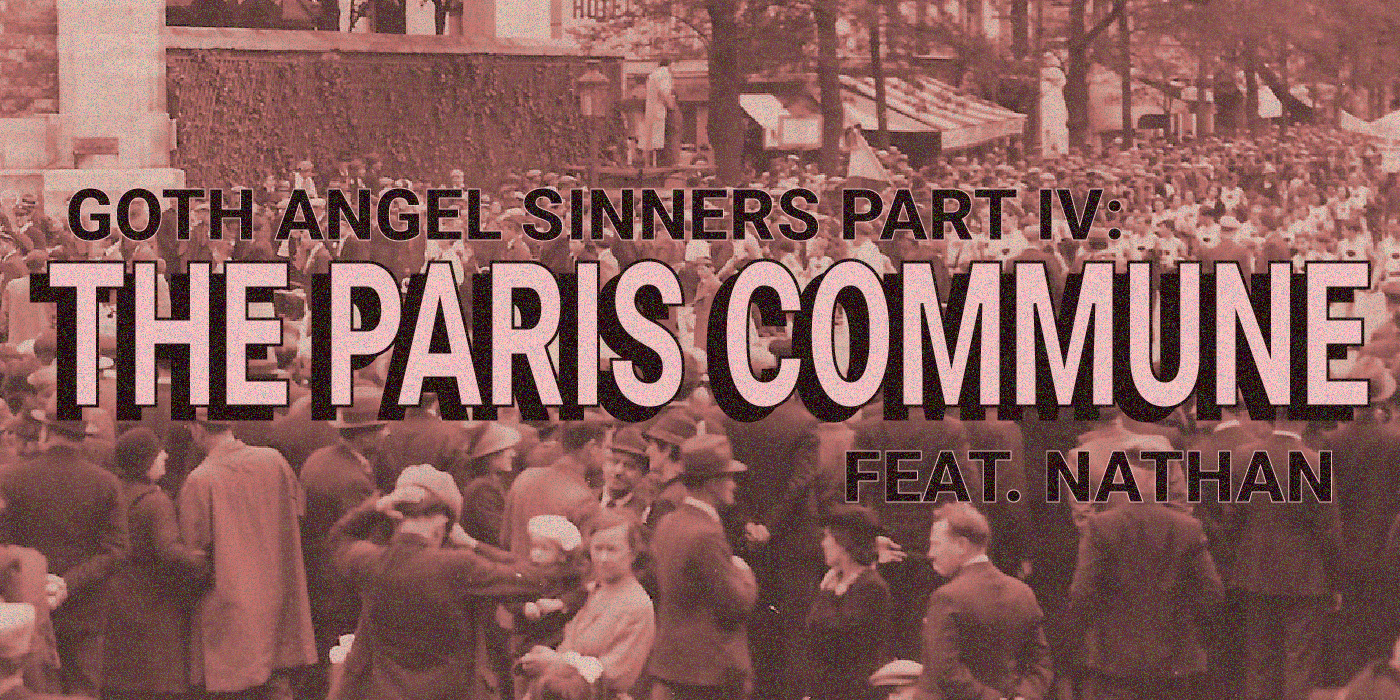
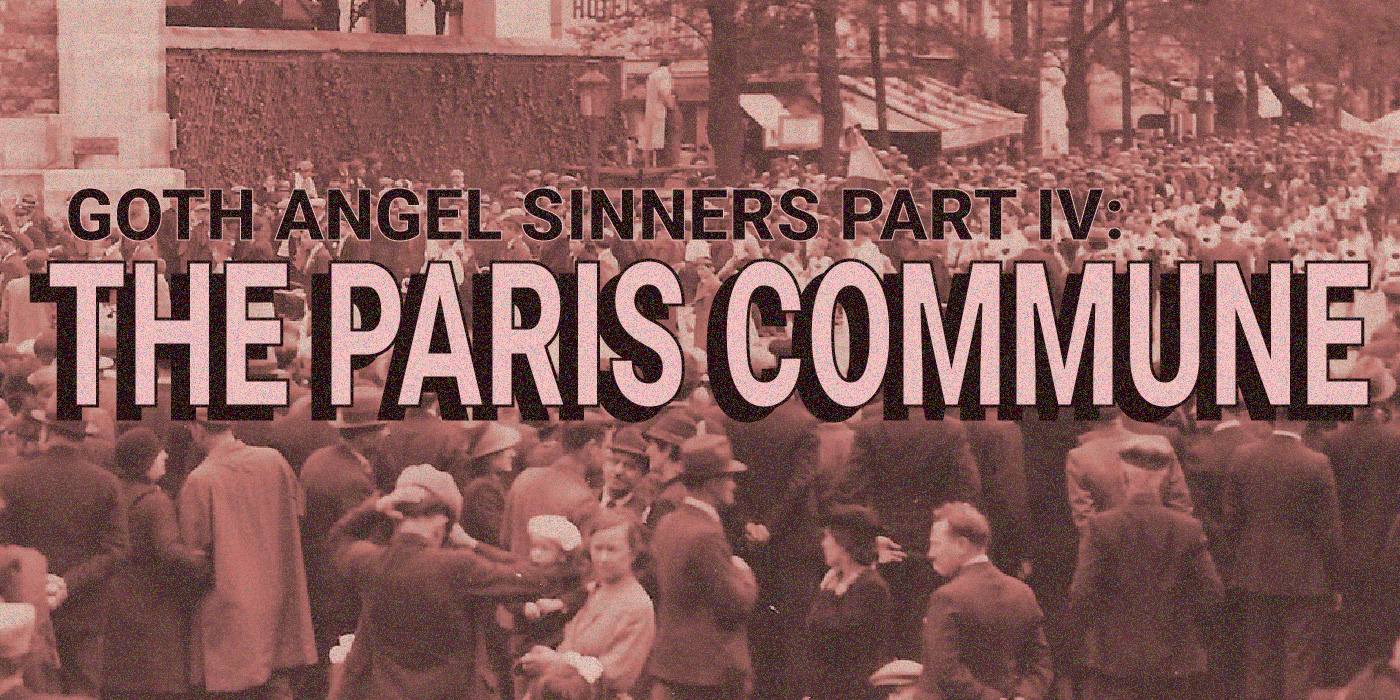
published pt iv notes

Changed region(s): [[0.5836, 0.63, 0.9521, 0.72]]

diff --git a/_posts/2019-01-17-paris-commune.md b/_posts/2019-01-17-paris-commune.md
@@ -4,7 +4,8 @@ author:
 - shtpostscarcity
 - whimworm
 description: >
-    Need to write a description.
+    We're not a history podcast and nobody actually knows what happened in Paris
+    in 1871.
 image: /assets/img/gas/paris.jpg
 layout: post-img
 permalink: /podcast/4/notes
@@ -14,6 +15,7 @@ title: "Goth Angel Sinners Pt. IV: <i>The Paris Commune</i> Notes"
 
 
  - Introduction:
+
    - L: _"Good Sextidi everyone and welcome to part four (4) of Goth Angel
      Sinners, the only podcast about anarchy, anarchists, and anarchism (and not
      about Lil Peep). I'm 'Leland'."_
@@ -21,11 +23,13 @@ title: "Goth Angel Sinners Pt. IV: <i>The Paris Commune</i> Notes"
    - T: _"and I'm @trewbot."_
    - L: _"Today we're continuing the tradition of not being a history podcast by
      talking about the Paris Commune in 1871."_
-   - C: We'll have a discussion with Nathan (who is in France and is French)
+   - C: ~~We'll have a discussion with Nathan (who is in France and is French)
      about the current happenings in France (the Yellow Vest stuff), so that'll
-     be partway through the episode between some other sections.
+     be partway through the episode between some other sections.~~
+
  - Yandex (Яндекс) is now the official search engine and browser of Goth Angel
    Sinners (Yandex please sponsor us).
+
  - Why did it happen? (Events leading up to the Paris Commune)
 
    ![](/assets/img/gas/4-graphics.gif)
@@ -60,7 +64,9 @@ title: "Goth Angel Sinners Pt. IV: <i>The Paris Commune</i> Notes"
      of the cannons
    - So now there's no central government and workers and radicalized soldiers
      are in charge of the city
+
  - What was the Paris Commune?
+
    - Paris Commune of 1790s (revolution) vs 1871
      - Neo-Jacobins as re-living height of revolution & basking in 1790s
        revisionism and repetition without critical evaluation of current
@@ -153,7 +159,9 @@ title: "Goth Angel Sinners Pt. IV: <i>The Paris Commune</i> Notes"
      Commune as moment of radicalisation vs much more frequent exile as
      radicalisation. Political exiles such as Michel exported together and
      radicalised by good comrades etc.
+
  - What's the deal with the ~ M a r x i s t s ~?
+
    - They view the Paris Commune as a working example of the Dictatorship of the
      Proletariat (DotP).
      - DotP is my favorite vocaloid producer (this is a funny joke).
@@ -175,7 +183,9 @@ title: "Goth Angel Sinners Pt. IV: <i>The Paris Commune</i> Notes"
      revolutionary action.
      - Particularly into the idea of the commune as dictatorship of the workers
        but deployed as a canard in practice later on.
+
  - What that calendar do tho?
+
    - It was developed during the original French Revolution but they used it
      during the Paris Commune because it's lit af and also secular or whatever.
    - Decimalization: everything based on 10s.
@@ -219,9 +229,12 @@ title: "Goth Angel Sinners Pt. IV: <i>The Paris Commune</i> Notes"
    - ![](/assets/img/gas/4-sextidi-3.gif)
    - ![](/assets/img/gas/4-sextidi-4.gif)
    - ![](/assets/img/gas/4-sextidi-5.gif)
+
  - Communard regret at not seizing and raising the banks recognised by Marx
    after the fact.
+
  - Predictions for 2050:
+
    - More domesticated raccoons
      - Evidence: raccoon emoji
      - No fall damage (just like cats)
@@ -231,7 +244,9 @@ title: "Goth Angel Sinners Pt. IV: <i>The Paris Commune</i> Notes"
    - "Audiophile" is a slur
    - Worship of Trewbot idols is widespread, they rub dicks on them.
    - Turkey joins the EU and leaves NATO.
+
  - _Further Reading_
+
    - <https://theanarchistlibrary.org/library/petr-kropotkin-the-commune-of-paris>
    - <https://theanarchistlibrary.org/library/michail-bakunin-the-paris-commune-and-the-idea-of-the-state>
    - <https://theanarchistlibrary.org/library/freedom-press-london-the-paris-commune#toc4>
